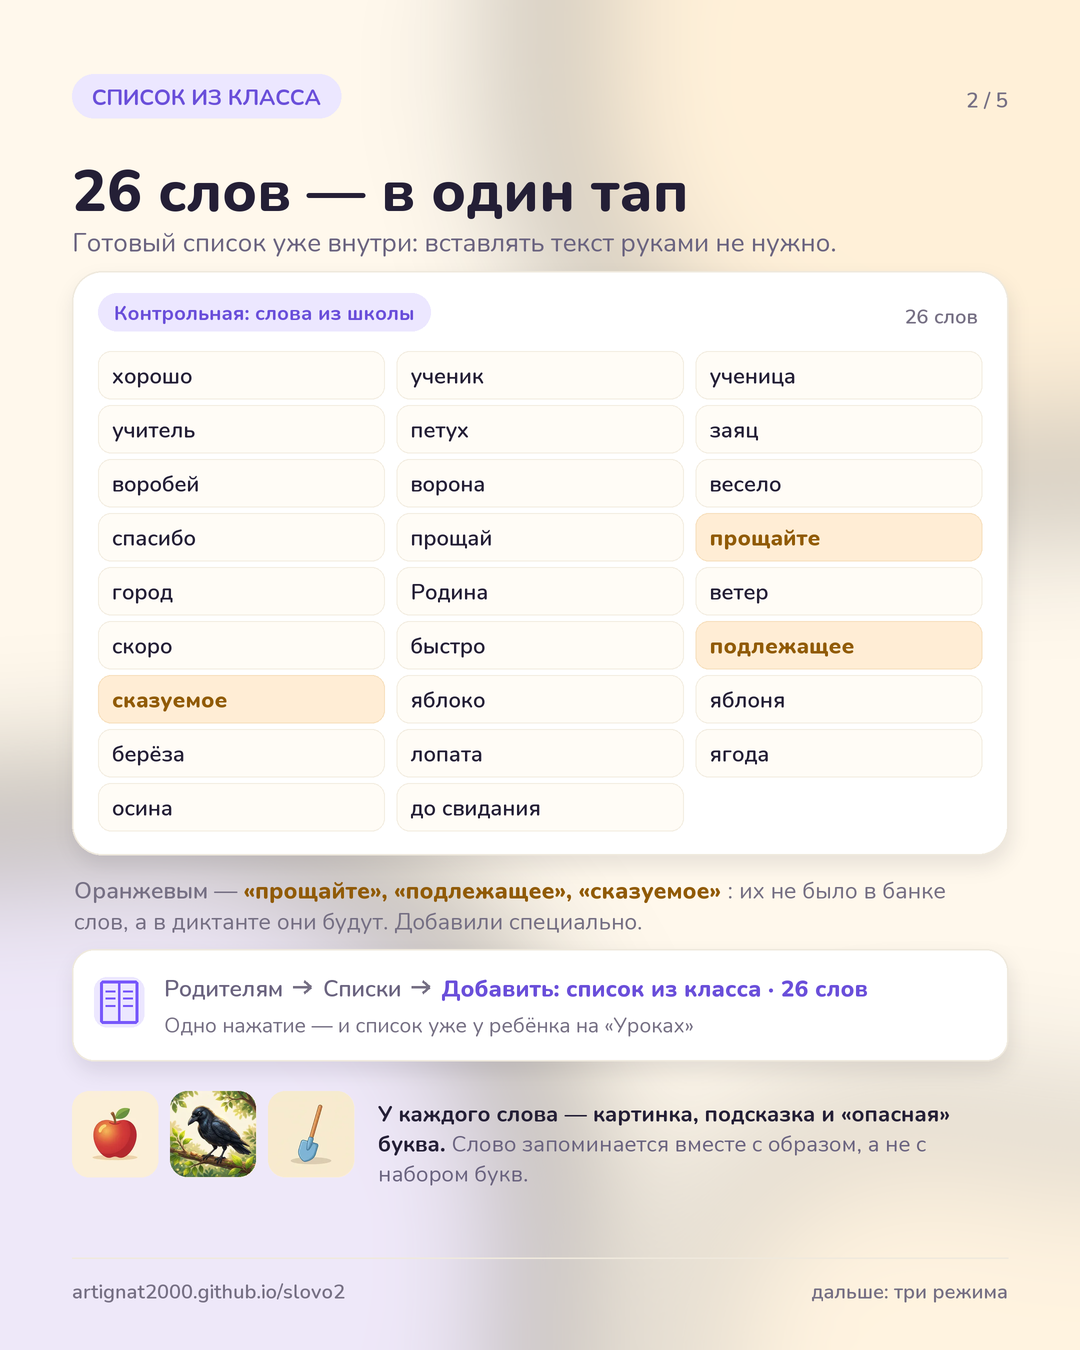
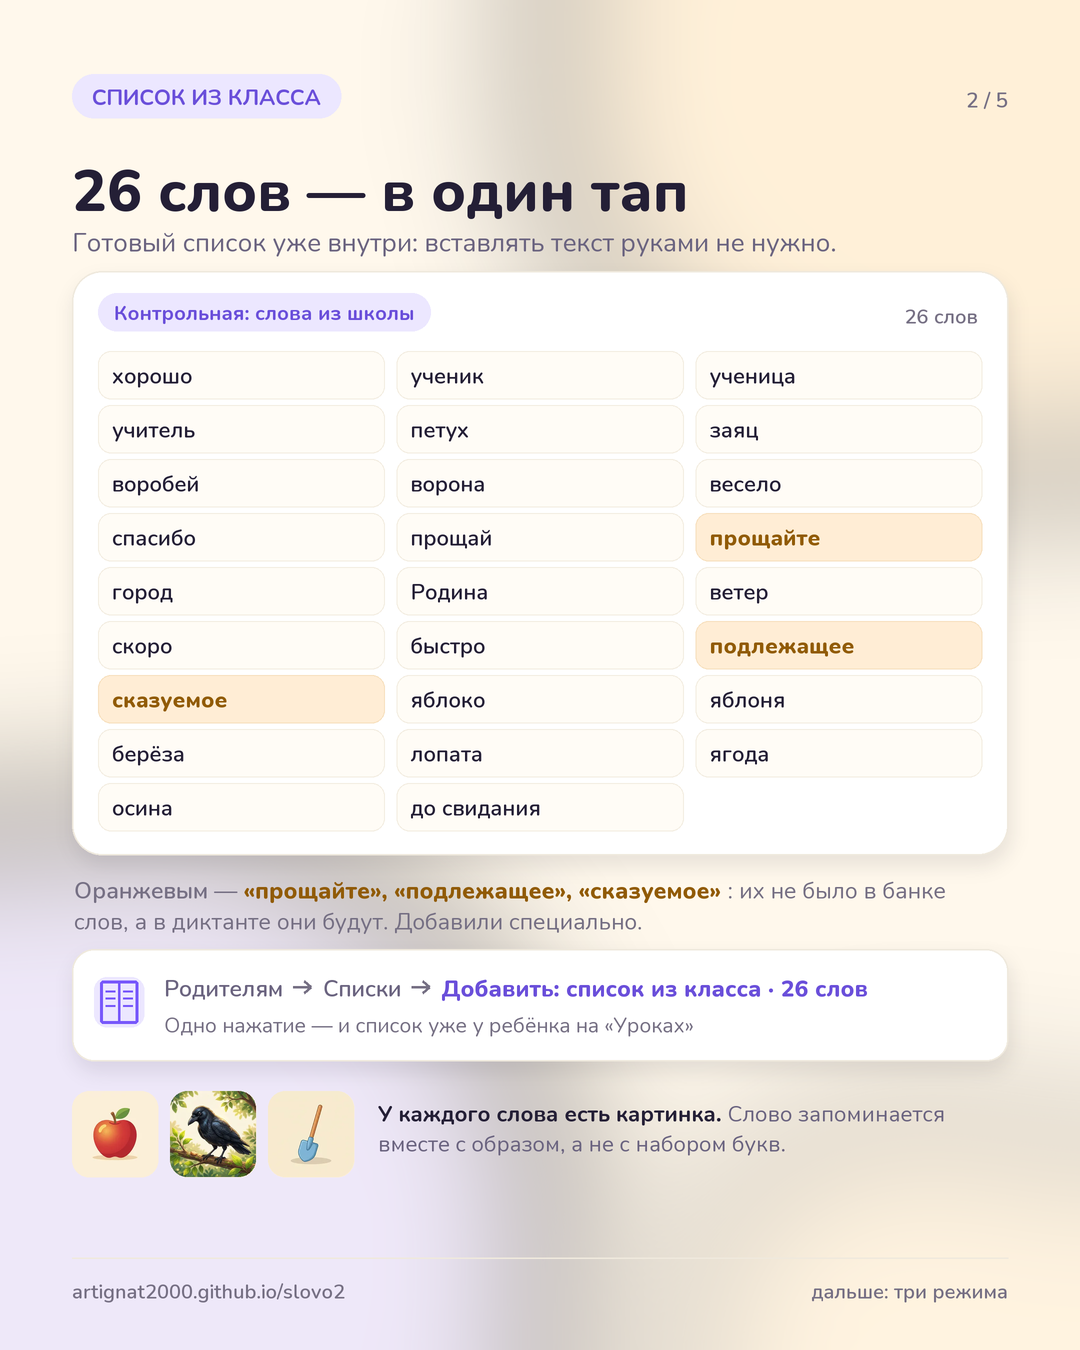
docs: слайд 2 — подпись только про картинку слова (подсказку не обещаем у всех)

Changed region(s): [[0.3361, 0.8089, 0.8861, 0.8711]]

diff --git a/scripts/promo/make_release_slides.py b/scripts/promo/make_release_slides.py
@@ -510,7 +510,7 @@ def slide2(img, d, out_dir):
     word_art(img, "vorona", PAD + 98, iy, 86)
     word_art(img, "lopata", PAD + 196, iy, 86)
     flow(d, PAD + 306, iy + 8, W - PAD - 306 - PAD,
-         [("У каждого слова — картинка, подсказка и «опасная» буква. ", F(22, 700), INK),
+         [("У каждого слова есть картинка.", F(22, 700), INK),
           ("Слово запоминается вместе с образом, а не с набором букв.", F(22, 400), INK2)], lh=30)
 
     footer(d, "дальше: три режима")
